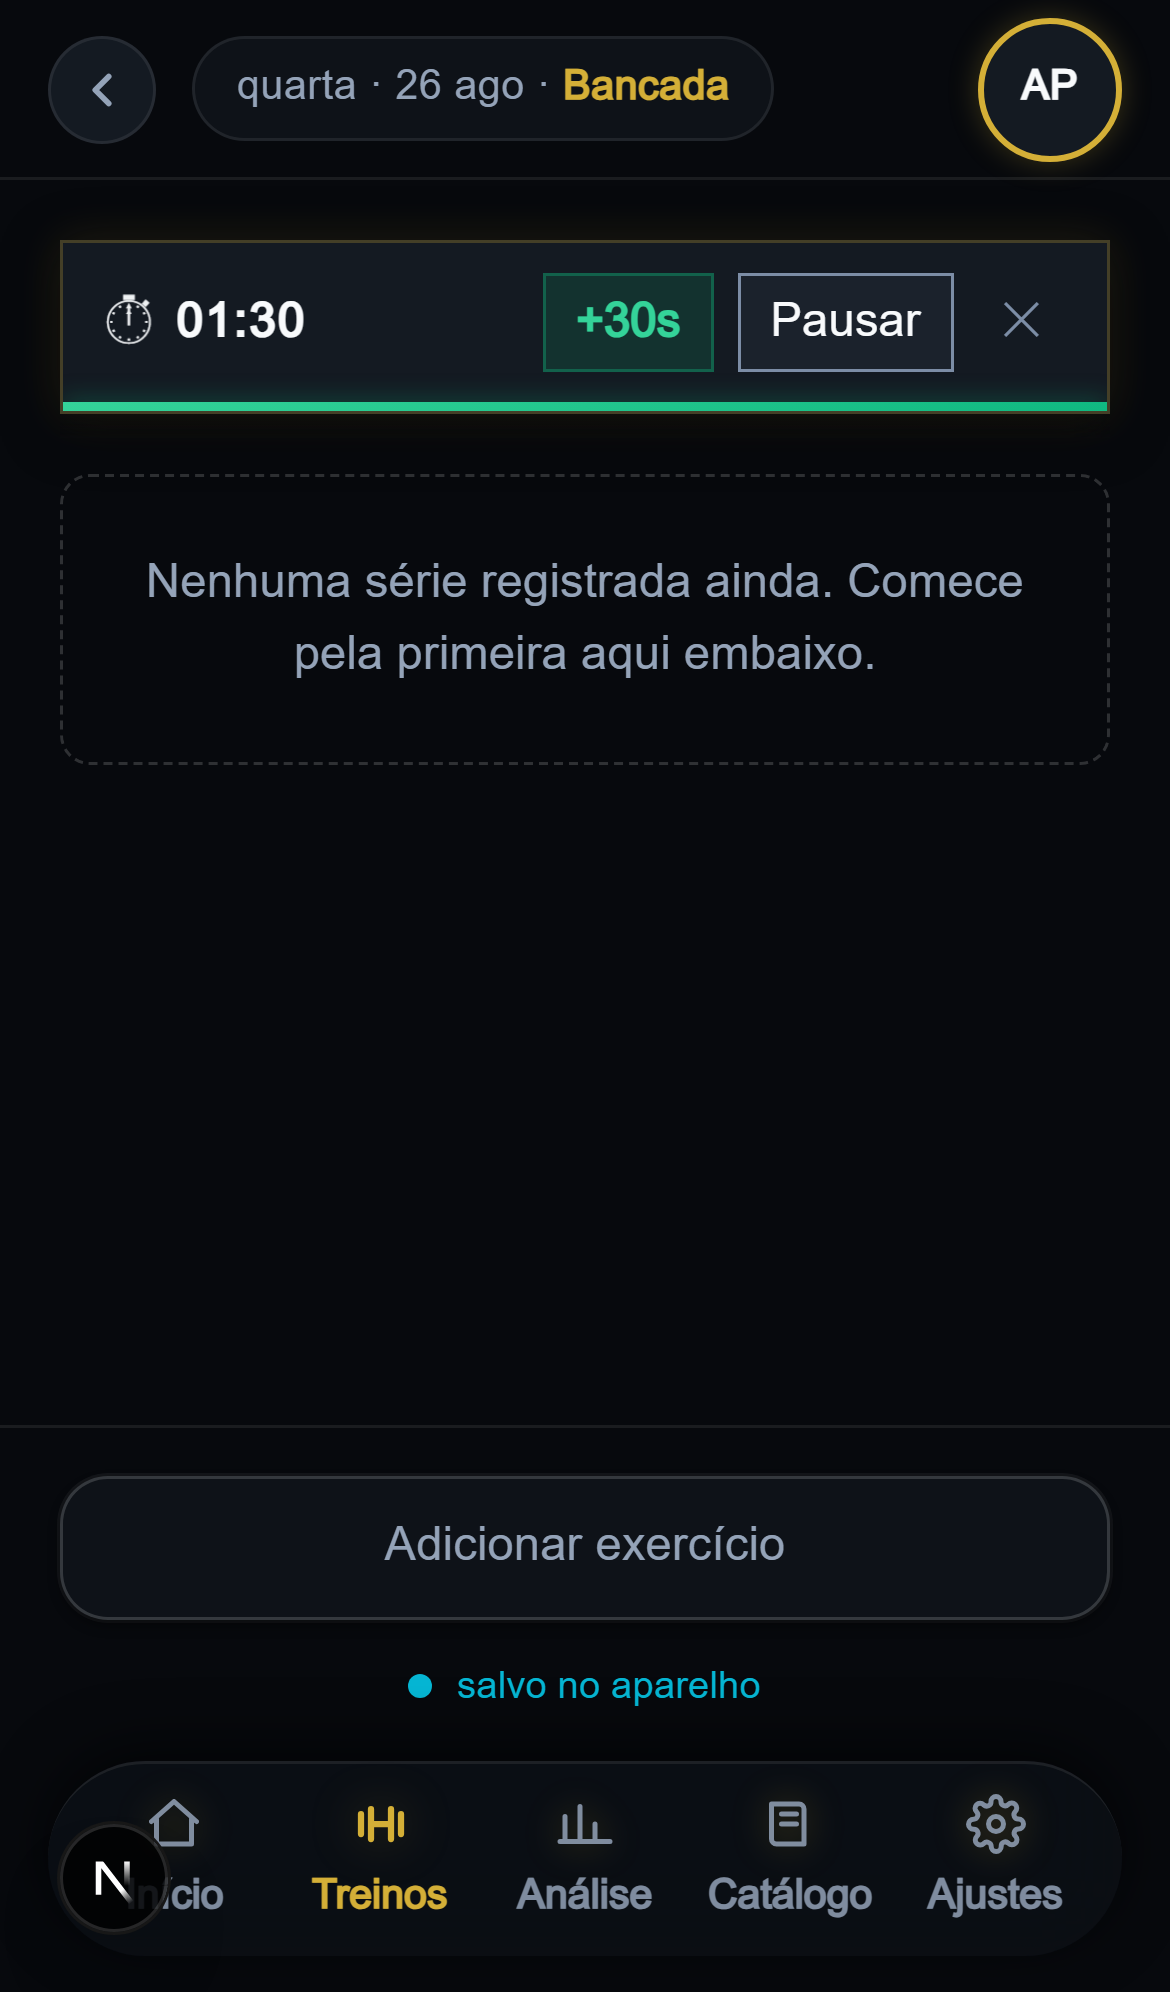
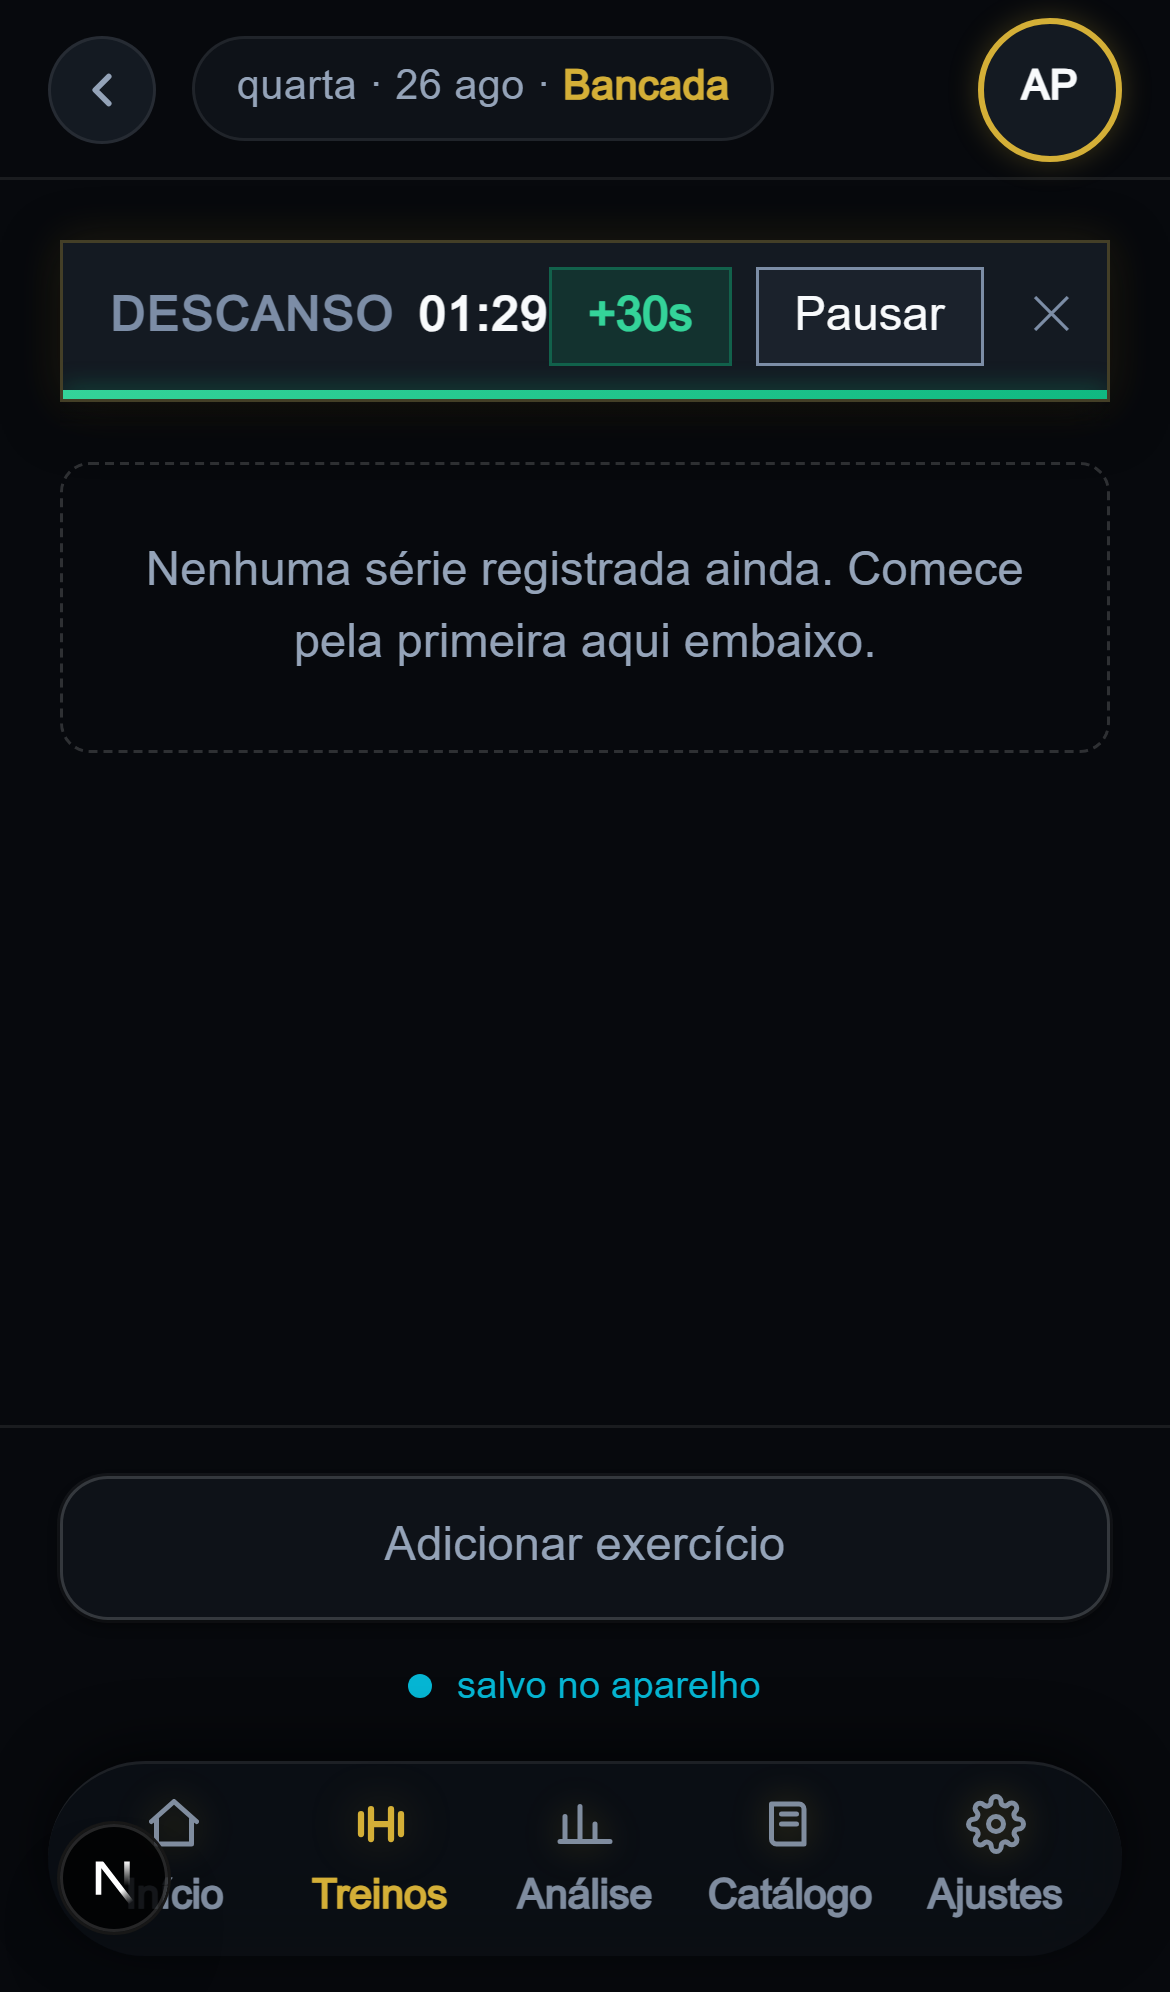
feat(treino): Refina formato pilula dos botoes, remove emojis e estiliza finalizar em vermelho
Agente: antigravity

Changed region(s): [[0.0308, 0.1245, 0.9538, 0.2179], [0.1231, 0.2801, 0.8923, 0.3424]]

diff --git a/src/app/sistema.css b/src/app/sistema.css
@@ -3954,12 +3954,12 @@
   font-family: var(--lastro-fonte-mono);
 }
 
-/* Card Ativo no Topo */
+/* Card Ativo no Topo - Formato Pílula */
 .timer-topo-card-ativo {
   background: var(--lastro-sup-2);
   border: 1px solid var(--lastro-ouro-glow);
   box-shadow: 0 4px 20px rgba(0, 0, 0, 0.4), 0 0 15px rgba(212, 175, 55, 0.15);
-  border-radius: var(--lastro-r-cartao);
+  border-radius: var(--lastro-r-pilula);
   overflow: hidden;
   animation: lastro-pilula-entra var(--lastro-dur-2) ease;
 }
@@ -3968,7 +3968,7 @@
   display: flex;
   align-items: center;
   justify-content: space-between;
-  padding: 10px 14px;
+  padding: 8px 16px;
 }
 
 .timer-topo-tempo-bloco {
@@ -3977,14 +3977,12 @@
   gap: var(--lastro-e-2);
 }
 
-.timer-topo-icone-pulsante {
-  font-size: 1.1rem;
-  animation: lastro-pulso 1.5s infinite ease-in-out;
-}
-
-@keyframes lastro-pulso {
-  0%, 100% { opacity: 0.6; transform: scale(0.95); }
-  50% { opacity: 1; transform: scale(1.1); }
+.timer-topo-tempo-label {
+  font-size: var(--lastro-papel-detalhe);
+  font-weight: 600;
+  color: var(--lastro-txt-3);
+  text-transform: uppercase;
+  letter-spacing: 0.05em;
 }
 
 .timer-topo-tempo-txt {
@@ -4007,7 +4005,7 @@
   color: var(--lastro-esmeralda-claro);
   font-size: var(--lastro-papel-detalhe);
   font-weight: 600;
-  padding: 4px 10px;
+  padding: 4px 12px;
   border-radius: var(--lastro-r-pilula);
   cursor: pointer;
   transition: background var(--lastro-dur-1);
@@ -4023,7 +4021,7 @@
   color: var(--lastro-txt-2);
   font-size: var(--lastro-papel-detalhe);
   font-weight: 500;
-  padding: 4px 10px;
+  padding: 4px 12px;
   border-radius: var(--lastro-r-pilula);
   cursor: pointer;
 }
@@ -4060,15 +4058,15 @@
   box-shadow: 0 0 8px rgba(16, 185, 129, 0.5);
 }
 
-/* Card de Conclusão */
+/* Card de Conclusão - Formato Pílula */
 .timer-topo-card-concluido {
   display: flex;
   align-items: center;
   justify-content: space-between;
   background: rgba(16, 185, 129, 0.15);
   border: 1px solid var(--lastro-esmeralda);
-  border-radius: var(--lastro-r-cartao);
-  padding: 10px 14px;
+  border-radius: var(--lastro-r-pilula);
+  padding: 8px 16px;
   animation: lastro-pilula-entra var(--lastro-dur-2) ease;
 }
 
@@ -4084,7 +4082,7 @@
   color: var(--lastro-esmeralda-claro);
 }
 
-/* ---------- Grid da Área de Ação Refinada (Lado a Lado + Finalizar) ---------- */
+/* ---------- Grid da Área de Ação Refinada (Lado a Lado Pílula + Finalizar Vermelho) ---------- */
 .acao-area-grid {
   display: grid;
   grid-template-columns: 1fr 1fr;
@@ -4099,13 +4097,14 @@
   justify-content: center;
   min-height: 52px;
   padding: var(--lastro-e-2) var(--lastro-e-3);
-  border-radius: var(--lastro-r-cartao);
+  border-radius: var(--lastro-r-pilula) !important;
   font-weight: 600;
   cursor: pointer;
   text-align: center;
   transition: all var(--lastro-dur-1) ease;
 }
 
+/* Botão Finalizar Treino em Vermelho Atlético com Formato Pílula */
 .botao-finalizar-treino {
   width: 100%;
   min-height: 48px;
@@ -4113,20 +4112,22 @@
   display: flex;
   align-items: center;
   justify-content: center;
-  gap: var(--lastro-e-2);
-  background: transparent;
-  border: 1px solid var(--lastro-borda-verde);
-  color: var(--lastro-esmeralda-claro);
-  border-radius: var(--lastro-r-cartao);
+  background: rgba(239, 68, 68, 0.12);
+  border: 1px solid rgba(239, 68, 68, 0.45);
+  color: #F87171;
+  border-radius: var(--lastro-r-pilula);
   font-size: var(--lastro-papel-rotulo);
   font-weight: 600;
   cursor: pointer;
+  box-shadow: 0 0 15px rgba(239, 68, 68, 0.12);
   transition: all var(--lastro-dur-1) ease;
 }
 
 .botao-finalizar-treino:hover {
-  background: var(--lastro-esmeralda-fundo);
-  border-color: var(--lastro-esmeralda);
+  background: rgba(239, 68, 68, 0.22);
+  border-color: #EF4444;
+  color: #FCA5A5;
+  box-shadow: 0 0 20px rgba(239, 68, 68, 0.25);
 }
 
 /* ---------- Modal do Relatório Pós-Treino (Estilo Strava) ---------- */

diff --git a/src/components/timer-topo.tsx b/src/components/timer-topo.tsx
@@ -100,7 +100,7 @@ export default function TimerTopo({
 
   return (
     <div className="timer-topo-container">
-      {/* 1. Modo Normal: Botão compacto de disparo manual no topo */}
+      {/* 1. Modo Normal: Botão pílula elegante de disparo manual no topo */}
       {!ativo && !finalizado && (
         <div className="timer-topo-gatilho">
           <button
@@ -109,7 +109,6 @@ export default function TimerTopo({
             onClick={() => iniciarTimer(duracaoPadraoSegundos)}
             title="Iniciar descanso entre séries"
           >
-            <span className="timer-topo-icone">⏱</span>
             <span>{t("Descanso", idioma)}</span>
             <span className="timer-topo-duracao-tag">
               {formatarMinutosSegundos(duracaoPadraoSegundos)}
@@ -118,12 +117,12 @@ export default function TimerTopo({
         </div>
       )}
 
-      {/* 2. Modo Ativo: Cápsula de contagem regressiva no topo */}
+      {/* 2. Modo Ativo: Cápsula pílula de contagem regressiva no topo */}
       {ativo && (
         <div className="timer-topo-card-ativo">
           <div className="timer-topo-conteudo">
             <div className="timer-topo-tempo-bloco">
-              <span className="timer-topo-icone-pulsante">⏱</span>
+              <span className="timer-topo-tempo-label">{t("Descanso", idioma)}</span>
               <span className="timer-topo-tempo-txt">
                 {formatarMinutosSegundos(segundosRestantes)}
               </span>
@@ -171,9 +170,8 @@ export default function TimerTopo({
       {finalizado && (
         <div className="timer-topo-card-concluido">
           <div className="timer-topo-concluido-info">
-            <span className="timer-topo-concluido-icone">🔔</span>
             <span className="timer-topo-concluido-txt">
-              {t("Descanso finalizado!", idioma)}
+              {t("Descanso finalizado", idioma)}
             </span>
           </div>
           <div style={{ display: "flex", gap: "8px" }}>

diff --git a/src/components/treino-detalhe.tsx b/src/components/treino-detalhe.tsx
@@ -503,7 +503,7 @@ export default function TreinoDetalhe({
               className="botao-primario botao-acao-duplo"
               onClick={repetirUltimaSerie}
             >
-              {t("Repetir última série", idioma)}
+              {t("Repetir série", idioma)}
               <span className="botao-primario__estado">
                 {ultima.reps} × {ultima.peso} kg · {t(ultima.tipo, idioma)}
               </span>
@@ -535,7 +535,6 @@ export default function TreinoDetalhe({
             className="botao-finalizar-treino"
             onClick={() => setMostrarRelatorio(true)}
           >
-            <span>🏁</span>
             <span>{t("Finalizar Treino", idioma)}</span>
           </button>
         )}

diff --git a/src/lib/texto/i18n.ts b/src/lib/texto/i18n.ts
@@ -196,6 +196,8 @@ const DICIONARIO: Record<string, { en: string; es: string }> = {
   "Treino novo": { en: "New workout", es: "Entrenamiento nuevo" },
 
   // --- components/formulario-serie.tsx ---
+  "Repetir série": { en: "Repeat set", es: "Repetir serie" },
+  "Finalizar Treino": { en: "Finish Workout", es: "Finalizar Entrenamiento" },
   "Exercício é obrigatório.": { en: "Exercise is required.", es: "El ejercicio es obligatorio." },
   "Escolha o tipo: aquecimento ou valendo.": {
     en: "Choose the type: warm-up or working set.",

diff --git a/PROGRESS.md b/PROGRESS.md
@@ -11,18 +11,17 @@
 
 > Bloco de handoff entre agentes (Antigravity ⇄ Claude). **Sobrescrever a cada sessão**, nunca acumular. Formato e regras: `AGENTS.md` §3.
 
-- **Última sessão:** 2026-08-26 (2) · agente: antigravity · branch: feat/timer-descanso-e-relatorio-pos-treino
-- **Em andamento:** Concluída a implementação do Timer de Descanso no Topo, Área de Ação Dividida Lado a Lado e Relatório Pós-Treino (Estilo Strava). Testes Vitest (185/185), build Next.js e Playwright E2E 100% aprovados.
-- **Fechado nesta sessão — Timer de Descanso no Topo & Relatório Pós-Treino:**
-  1. **Timer de Descanso no Topo:** Disparo manual com 1 toque, contagem regressiva baseada em timestamp absoluto (resiliente a bloqueio de tela/troca de app), micro-ajuste `+30s`, barra de progresso verde esmeralda e alertas de som/vibração.
-  2. **Área de Ações Dividida Lado a Lado:** Grid ergonômico com `[ Repetir última série ]` (dourado) à esquerda e `[ Outra série ]` (ardósia) à direita, preservando o toque único da ação mais frequente.
-  3. **Botão Finalizar Treino & Relatório Pós-Treino:** Modal de celebração pós-treino exibindo duração da sessão (minutos), tonelagem total movimentada (kg), contagem de séries válidas e novos recordes pessoais (PRs) batidos no dia.
-  4. **Verificação Automatizada:** Testes unitários (`src/lib/dados/metricas-treino.test.ts`), suíte completa Vitest 185/185, Next.js build e validação Playwright mobile.
+- **Última sessão:** 2026-08-26 (3) · agente: antigravity · branch: feat/refinamento-botoes-pilula-e-finalizar-vermelho
+- **Em andamento:** Concluído o refinamento visual da tela de treino: formato de pílula em todos os botões de ação, remoção de emojis do timer e do botão finalizar, texto enxuto "Repetir série" e botão "Finalizar Treino" destacado em vermelho atlético. Testes Vitest (185/185) e Playwright 100% aprovados.
+- **Fechado nesta sessão — Refinamento Visual de Botões & Timer:**
+  1. **Remoção de Emojis:** Timer no topo e botão de finalizar treino agora com tipografia limpa e refinada sem emojis.
+  2. **Formato Pílula:** Botões `Repetir série` e `Outra série` com formato arredondado de pílula (`--lastro-r-pilula`).
+  3. **Botão Finalizar Treino em Vermelho:** Estilizado com acabamento rubi atlético com alto contraste e brilho sutil em vez de borda vazia/verde.
+  4. **Texto Direto:** Botão principal atualizado para `"Repetir série"`.
 - **Bloqueado / a decidir:** Nada.
 - **Próximo passo:** Subir a branch e fazer merge na main.
 - **Para o outro agente saber:**
-  - O cálculo de tonelagem total e métricas da sessão vive de forma pura e determinística em `src/lib/dados/metricas-treino.ts`.
-  - O timer no topo (`src/components/timer-topo.tsx`) utiliza `Date.now()` para garantir precisão mesmo quando o celular fica em repouso no bolso entre séries.
+  - Todos os botões da área de ação inferior usam formato de pílula consistente com os tokens do sistema.
 
 ---
 
